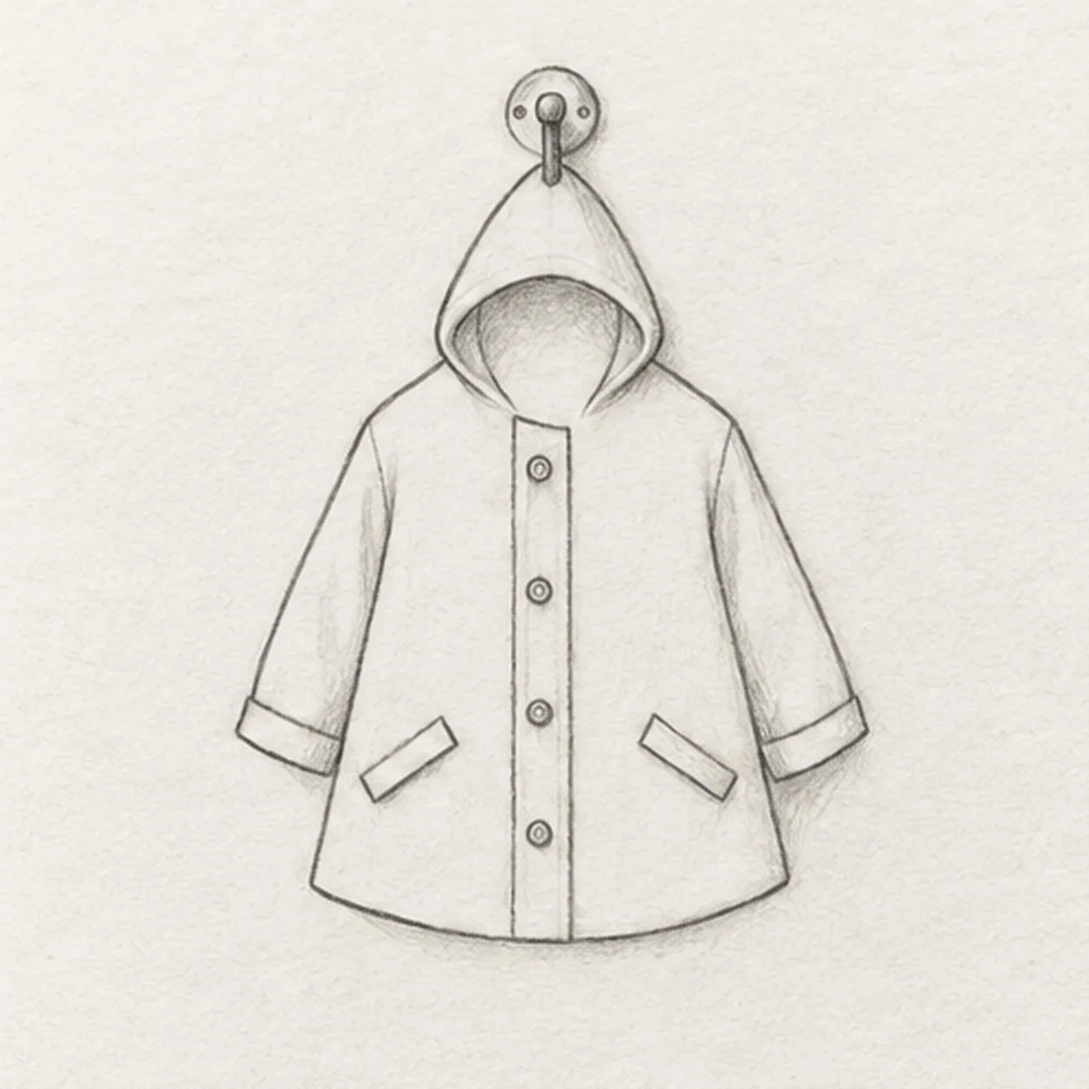
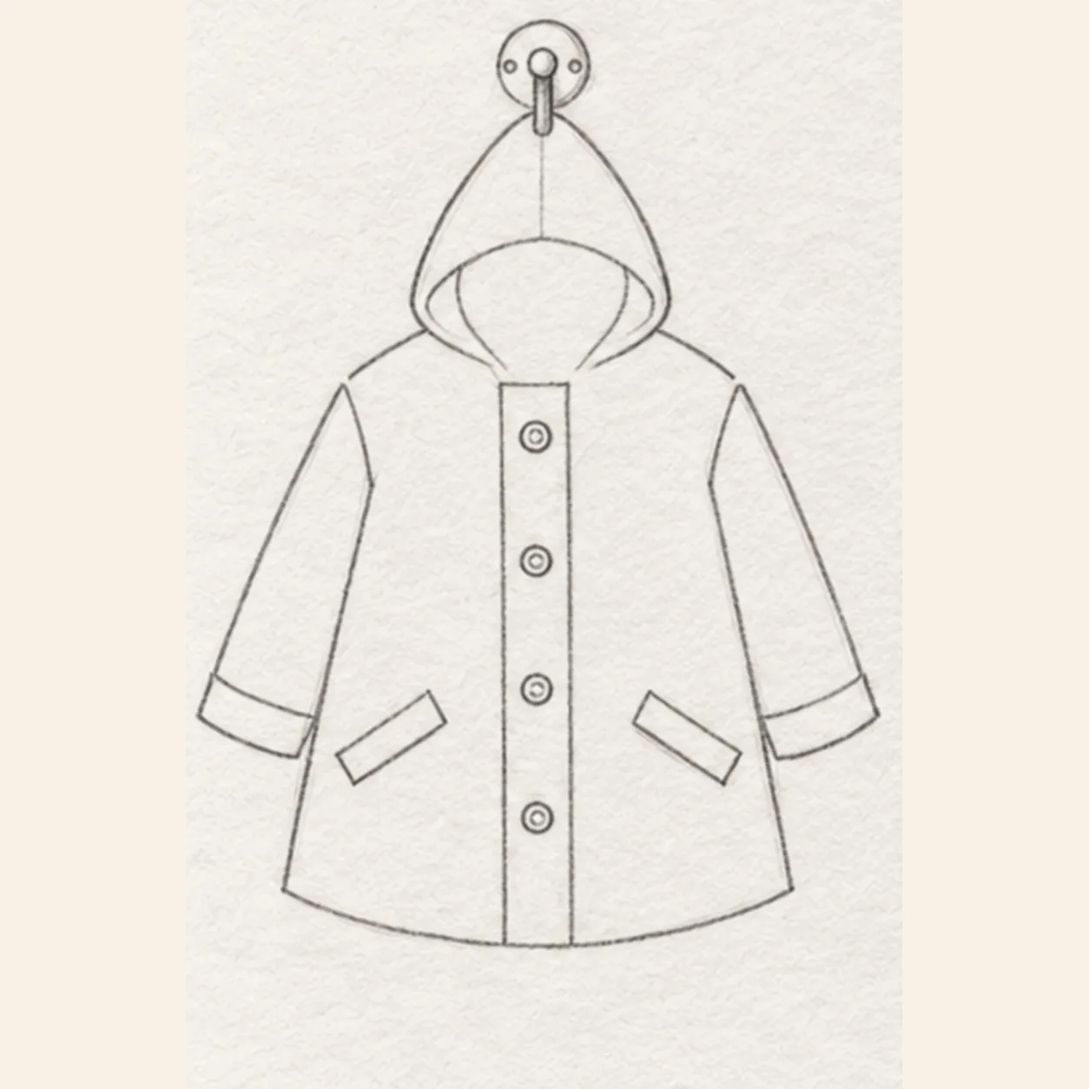
Rebuild raincoat lesson from simple body shapes

Changed region(s): [[0.1866, 0.0, 0.8086, 0.9019]]

diff --git a/tutorials/raincoat-on-a-wall-hook.html b/tutorials/raincoat-on-a-wall-hook.html
@@ -91,33 +91,33 @@
       "step": [
         {
           "@type": "HowToStep",
-          "name": "Place the peg and hood",
-          "text": "Draw a small round wall plate near the top center and let a short peg drop in front of it. From just below the peg, draw a softly pointed hood and a smaller U-shaped opening inside; let the hood meet the hanging point."
+          "name": "Map the coat body",
+          "text": "With light HB pressure, place two short shoulder slopes on either side of a wide empty neckline. Leave a small break below each shoulder for the sleeves, then draw the two sides flaring gently to a shallow curved hem. Keep the body interior blank."
         },
         {
           "@type": "HowToStep",
-          "name": "Hang the coat body",
-          "text": "From each lower hood corner, slope a shoulder outward. Leave a small open break at each shoulder for a sleeve, then draw the torso side seams from the future underarms with a slight flare and join them with a shallow curved hem."
+          "name": "Attach the loose sleeves",
+          "text": "From the left shoulder gap, pull a loose sleeve down and left to a short cuff, then return its inner edge to the existing left underarm. Mirror that move on the right without moving either side seam or the hem."
         },
         {
           "@type": "HowToStep",
-          "name": "Add both loose sleeves",
-          "text": "At the left shoulder gap, draw a loose sleeve slanting down and left to a short cuff; return its inner edge to the body at the underarm. Repeat on the right, keeping the cuffs outside the torso side seams."
+          "name": "Set the hood and peg",
+          "text": "Above the empty neckline, draw a softly pointed outer hood that meets the two inner shoulder starts. Add a smaller open U-shaped rim and one faint center seam inside the hood. Center a small round wall plate and short downward peg above the hood tip; keep the hood interior mostly white."
         },
         {
           "@type": "HowToStep",
-          "name": "Mark the front details",
-          "text": "Run two close lines from the hood opening toward the hem for the placket. Place four separate buttons inside it. Draw one short slanted pocket flap on each lower side, clear of the center opening."
+          "name": "Draw the fastening and pockets",
+          "text": "From below the hood opening, draw two close placket lines down to the hem. Space four small button circles inside it. Add one slanted pocket flap on each lower side, keeping both outside the placket and clear of the sleeves."
         },
         {
           "@type": "HowToStep",
-          "name": "Suggest soft fabric and shadow",
-          "text": "Drop two short drawstrings from the hood opening and add a short inner-hood fold across its lower opening. Add a few small fabric creases beside the shoulders and pockets, then shade lightly down and right of the hem without moving the coat outline."
+          "name": "Add cords, folds, and shadow",
+          "text": "Drop one short cord from each side of the hood rim, add a short inner-hood fold, then place a few brief creases below the shoulders and pockets. Shade lightly beneath and to the right of the coat; keep all keeper contours fixed."
         },
         {
           "@type": "HowToStep",
-          "name": "Shade the raincoat",
-          "text": "Keep the peg and all coat contours where they are. Darken the hood opening, cuffs, placket, and pocket edges, then layer soft mustard-yellow pencil over the hood, body, and sleeves, leaving paper highlights on the folds."
+          "name": "Shade the finished raincoat",
+          "text": "Deepen selected existing hood, cuff, placket, and pocket edges. Layer soft mustard-yellow pencil over the hood, body, and sleeves, leaving paper highlights on the folds; preserve the peg, four buttons, two pockets, cords, and wall shadow exactly where drawn."
         }
       ]
     },
@@ -170,7 +170,7 @@
       <div class="hero-copy">
         <p class="eyebrow">Thursday, October 1</p>
         <h1 id="hero-title" aria-label="How to draw a raincoat on a wall hook"><span class="headline-lead">How to draw...</span> <em aria-hidden="true"><span class="headline-line headline-line-compact"><span class="headline-word">a</span> <span class="headline-word">hanging</span> <span class="headline-word headline-underline">raincoat</span></span></em></h1>
-        <p class="hero-intro">Hang a simple hood from a small wall peg, then build a loose raincoat around that fixed point. Add the sleeves, center fastening, two pockets, and soft folds before shading. This 20-minute sketch practices a fabric silhouette, reserved sleeve joins, and restrained colored-pencil texture.</p>
+        <p class="hero-intro">Start with a light, flared coat body, attach the loose sleeves, then fit the hood and peg above the shoulders. Add the fastening, pockets, and small fabric details before shading. This 20-minute sketch practices a broad silhouette, clear sleeve joins, and restrained colored-pencil texture.</p>
         <div class="hero-meta" aria-label="Lesson details"><span><strong>20</strong> min</span><span><strong>Easy-medium</strong></span></div>
         <a class="nav-button hero-button" href="#lesson">Start drawing <svg viewBox="0 0 30 15" aria-hidden="true"><path d="M1 7.5h26M20 1l7 6.5-7 6.5"/></svg></a>
       </div>
@@ -199,47 +199,47 @@
             <button class="step-check" type="button" aria-label="Mark step 1 complete"><span></span></button>
             <div class="step-number">01</div>
             <div class="step-art">
-              <img src="../assets/raincoat-on-a-wall-hook-step-1.webp" alt="Place the peg and hood stage for how to draw a raincoat on a wall hook" width="627" height="627" loading="lazy">
+              <img src="../assets/raincoat-on-a-wall-hook-step-1.webp" alt="Map the coat body stage for how to draw a raincoat on a wall hook" width="627" height="627" loading="lazy">
             </div>
             <div class="step-copy">
-              <h3>Place the peg and hood</h3>
-              <p>Draw a small round wall plate near the top center and let a short peg drop in front of it. From just below the peg, draw a softly pointed hood and a smaller U-shaped opening inside; let the hood meet the hanging point.</p>
-              <p class="artist-tip"><strong>Sketch tip:</strong> Keep the peg small so the hood, rather than the hardware, sets the coat width. The open hood makes the hanging point easy to locate.</p>
+              <h3>Map the coat body</h3>
+              <p>With light HB pressure, place two short shoulder slopes on either side of a wide empty neckline. Leave a small break below each shoulder for the sleeves, then draw the two sides flaring gently to a shallow curved hem. Keep the body interior blank.</p>
+              <p class="artist-tip"><strong>Sketch tip:</strong> Compare the two lower corners before closing the hem. Leave space between the shoulder starts so the hood can fit later.</p>
             </div>
           </li>
           <li class="step-card">
             <button class="step-check" type="button" aria-label="Mark step 2 complete"><span></span></button>
             <div class="step-number">02</div>
             <div class="step-art">
-              <img src="../assets/raincoat-on-a-wall-hook-step-2.webp" alt="Hang the coat body stage for how to draw a raincoat on a wall hook" width="627" height="627" loading="lazy">
+              <img src="../assets/raincoat-on-a-wall-hook-step-2.webp" alt="Attach the loose sleeves stage for how to draw a raincoat on a wall hook" width="627" height="627" loading="lazy">
             </div>
             <div class="step-copy">
-              <h3>Hang the coat body</h3>
-              <p>From each lower hood corner, slope a shoulder outward. Leave a small open break at each shoulder for a sleeve, then draw the torso side seams from the future underarms with a slight flare and join them with a shallow curved hem.</p>
-              <p class="artist-tip"><strong>Sketch tip:</strong> Compare the two lower corners before closing the hem. The reserved shoulder breaks are where the sleeves will join.</p>
+              <h3>Attach the loose sleeves</h3>
+              <p>From the left shoulder gap, pull a loose sleeve down and left to a short cuff, then return its inner edge to the existing left underarm. Mirror that move on the right without moving either side seam or the hem.</p>
+              <p class="artist-tip"><strong>Sketch tip:</strong> Let each sleeve droop from its shoulder, then reconnect at the existing underarm; keep the original body side seams and hem in place.</p>
             </div>
           </li>
           <li class="step-card">
             <button class="step-check" type="button" aria-label="Mark step 3 complete"><span></span></button>
             <div class="step-number">03</div>
             <div class="step-art">
-              <img src="../assets/raincoat-on-a-wall-hook-step-3.webp" alt="Add both loose sleeves stage for how to draw a raincoat on a wall hook" width="627" height="627" loading="lazy">
+              <img src="../assets/raincoat-on-a-wall-hook-step-3.webp" alt="Set the hood and peg stage for how to draw a raincoat on a wall hook" width="627" height="627" loading="lazy">
             </div>
             <div class="step-copy">
-              <h3>Add both loose sleeves</h3>
-              <p>At the left shoulder gap, draw a loose sleeve slanting down and left to a short cuff; return its inner edge to the body at the underarm. Repeat on the right, keeping the cuffs outside the torso side seams.</p>
-              <p class="artist-tip"><strong>Sketch tip:</strong> Let each sleeve droop from its shoulder, then reconnect at the existing underarm; do not redraw the torso side seams.</p>
+              <h3>Set the hood and peg</h3>
+              <p>Above the empty neckline, draw a softly pointed outer hood that meets the two inner shoulder starts. Add a smaller open U-shaped rim and one faint center seam inside the hood. Center a small round wall plate and short downward peg above the hood tip; keep the hood interior mostly white.</p>
+              <p class="artist-tip"><strong>Sketch tip:</strong> Keep the peg centered above the empty neckline. Leave the hood interior open for shading and drawstrings in later steps.</p>
             </div>
           </li>
           <li class="step-card">
             <button class="step-check" type="button" aria-label="Mark step 4 complete"><span></span></button>
             <div class="step-number">04</div>
             <div class="step-art">
-              <img src="../assets/raincoat-on-a-wall-hook-step-4.webp" alt="Mark the front details stage for how to draw a raincoat on a wall hook" width="627" height="627" loading="lazy">
+              <img src="../assets/raincoat-on-a-wall-hook-step-4.webp" alt="Draw the fastening and pockets stage for how to draw a raincoat on a wall hook" width="627" height="627" loading="lazy">
             </div>
             <div class="step-copy">
-              <h3>Mark the front details</h3>
-              <p>Run two close lines from the hood opening toward the hem for the placket. Place four separate buttons inside it. Draw one short slanted pocket flap on each lower side, clear of the center opening.</p>
+              <h3>Draw the fastening and pockets</h3>
+              <p>From below the hood opening, draw two close placket lines down to the hem. Space four small button circles inside it. Add one slanted pocket flap on each lower side, keeping both outside the placket and clear of the sleeves.</p>
               <p class="artist-tip"><strong>Sketch tip:</strong> Space the four buttons before darkening them. Keep each pocket flap outside the center placket and below its sleeve.</p>
             </div>
           </li>
@@ -247,12 +247,12 @@
             <button class="step-check" type="button" aria-label="Mark step 5 complete"><span></span></button>
             <div class="step-number">05</div>
             <div class="step-art">
-              <img src="../assets/raincoat-on-a-wall-hook-step-5.webp" alt="Suggest soft fabric and shadow stage for how to draw a raincoat on a wall hook" width="627" height="627" loading="lazy">
+              <img src="../assets/raincoat-on-a-wall-hook-step-5.webp" alt="Add cords, folds, and shadow stage for how to draw a raincoat on a wall hook" width="627" height="627" loading="lazy">
             </div>
             <div class="step-copy">
-              <h3>Suggest soft fabric and shadow</h3>
-              <p>Drop two short drawstrings from the hood opening and add a short inner-hood fold across its lower opening. Add a few small fabric creases beside the shoulders and pockets, then shade lightly down and right of the hem without moving the coat outline.</p>
-              <p class="artist-tip"><strong>Sketch tip:</strong> Use short fabric marks rather than outlining every fold. Keep the wall shadow faint so the coat stays the focus.</p>
+              <h3>Add cords, folds, and shadow</h3>
+              <p>Drop one short cord from each side of the hood rim, add a short inner-hood fold, then place a few brief creases below the shoulders and pockets. Shade lightly beneath and to the right of the coat; keep all keeper contours fixed.</p>
+              <p class="artist-tip"><strong>Sketch tip:</strong> Use short fabric marks instead of outlining every fold. Keep the wall shadow faint so the coat stays the focus.</p>
             </div>
           </li>
           <li class="step-card final-step">
@@ -262,8 +262,8 @@
               <img src="../assets/raincoat-on-a-wall-hook-finished-v1.webp" alt="Handmade graphite and mustard colored-pencil sketch of a hooded raincoat hanging from a small round wall peg, with two loose cuffed sleeves, four buttons down a central placket, two slanted pocket flaps, two hood drawstrings, soft folds, and a faint wall shadow" width="1254" height="1254" loading="lazy">
             </div>
             <div class="step-copy">
-              <h3>Shade the raincoat</h3>
-              <p>Keep the peg and all coat contours where they are. Darken the hood opening, cuffs, placket, and pocket edges, then layer soft mustard-yellow pencil over the hood, body, and sleeves, leaving paper highlights on the folds.</p>
+              <h3>Shade the finished raincoat</h3>
+              <p>Deepen selected existing hood, cuff, placket, and pocket edges. Layer soft mustard-yellow pencil over the hood, body, and sleeves, leaving paper highlights on the folds; preserve the peg, four buttons, two pockets, cords, and wall shadow exactly where drawn.</p>
               <p class="artist-tip"><strong>Sketch tip:</strong> Build yellow in two light layers and leave flecks of paper visible. The peg and four buttons should still read clearly at thumbnail size.</p>
             </div>
           </li>

diff --git a/index.html b/index.html
@@ -74,7 +74,7 @@
       <div class="hero-copy">
         <p class="eyebrow">Thursday, October 1</p>
         <h1 id="hero-title" aria-label="How to draw a raincoat on a wall hook"><span class="headline-lead">How to draw...</span> <em aria-hidden="true"><span class="headline-line headline-line-compact"><span class="headline-word">a</span> <span class="headline-word">hanging</span> <span class="headline-word headline-underline">raincoat</span></span></em></h1>
-        <p class="hero-intro">Hang a simple hood from a small wall peg, then build a loose raincoat around that fixed point. Add the sleeves, center fastening, two pockets, and soft folds before shading. This 20-minute sketch practices a fabric silhouette, reserved sleeve joins, and restrained colored-pencil texture.</p>
+        <p class="hero-intro">Start with a light, flared coat body, attach the loose sleeves, then fit the hood and peg above the shoulders. Add the fastening, pockets, and small fabric details before shading. This 20-minute sketch practices a broad silhouette, clear sleeve joins, and restrained colored-pencil texture.</p>
         <div class="hero-meta" aria-label="Lesson details"><span><strong>20</strong> min</span><span><strong>Easy-medium</strong></span></div>
         <a class="nav-button hero-button" href="#lesson">Start drawing <svg viewBox="0 0 30 15" aria-hidden="true"><path d="M1 7.5h26M20 1l7 6.5-7 6.5"/></svg></a>
       </div>
@@ -103,47 +103,47 @@
             <button class="step-check" type="button" aria-label="Mark step 1 complete"><span></span></button>
             <div class="step-number">01</div>
             <div class="step-art">
-              <img src="assets/raincoat-on-a-wall-hook-step-1.webp" alt="Place the peg and hood stage for how to draw a raincoat on a wall hook" width="627" height="627" loading="lazy">
+              <img src="assets/raincoat-on-a-wall-hook-step-1.webp" alt="Map the coat body stage for how to draw a raincoat on a wall hook" width="627" height="627" loading="lazy">
             </div>
             <div class="step-copy">
-              <h3>Place the peg and hood</h3>
-              <p>Draw a small round wall plate near the top center and let a short peg drop in front of it. From just below the peg, draw a softly pointed hood and a smaller U-shaped opening inside; let the hood meet the hanging point.</p>
-              <p class="artist-tip"><strong>Sketch tip:</strong> Keep the peg small so the hood, rather than the hardware, sets the coat width. The open hood makes the hanging point easy to locate.</p>
+              <h3>Map the coat body</h3>
+              <p>With light HB pressure, place two short shoulder slopes on either side of a wide empty neckline. Leave a small break below each shoulder for the sleeves, then draw the two sides flaring gently to a shallow curved hem. Keep the body interior blank.</p>
+              <p class="artist-tip"><strong>Sketch tip:</strong> Compare the two lower corners before closing the hem. Leave space between the shoulder starts so the hood can fit later.</p>
             </div>
           </li>
           <li class="step-card">
             <button class="step-check" type="button" aria-label="Mark step 2 complete"><span></span></button>
             <div class="step-number">02</div>
             <div class="step-art">
-              <img src="assets/raincoat-on-a-wall-hook-step-2.webp" alt="Hang the coat body stage for how to draw a raincoat on a wall hook" width="627" height="627" loading="lazy">
+              <img src="assets/raincoat-on-a-wall-hook-step-2.webp" alt="Attach the loose sleeves stage for how to draw a raincoat on a wall hook" width="627" height="627" loading="lazy">
             </div>
             <div class="step-copy">
-              <h3>Hang the coat body</h3>
-              <p>From each lower hood corner, slope a shoulder outward. Leave a small open break at each shoulder for a sleeve, then draw the torso side seams from the future underarms with a slight flare and join them with a shallow curved hem.</p>
-              <p class="artist-tip"><strong>Sketch tip:</strong> Compare the two lower corners before closing the hem. The reserved shoulder breaks are where the sleeves will join.</p>
+              <h3>Attach the loose sleeves</h3>
+              <p>From the left shoulder gap, pull a loose sleeve down and left to a short cuff, then return its inner edge to the existing left underarm. Mirror that move on the right without moving either side seam or the hem.</p>
+              <p class="artist-tip"><strong>Sketch tip:</strong> Let each sleeve droop from its shoulder, then reconnect at the existing underarm; keep the original body side seams and hem in place.</p>
             </div>
           </li>
           <li class="step-card">
             <button class="step-check" type="button" aria-label="Mark step 3 complete"><span></span></button>
             <div class="step-number">03</div>
             <div class="step-art">
-              <img src="assets/raincoat-on-a-wall-hook-step-3.webp" alt="Add both loose sleeves stage for how to draw a raincoat on a wall hook" width="627" height="627" loading="lazy">
+              <img src="assets/raincoat-on-a-wall-hook-step-3.webp" alt="Set the hood and peg stage for how to draw a raincoat on a wall hook" width="627" height="627" loading="lazy">
             </div>
             <div class="step-copy">
-              <h3>Add both loose sleeves</h3>
-              <p>At the left shoulder gap, draw a loose sleeve slanting down and left to a short cuff; return its inner edge to the body at the underarm. Repeat on the right, keeping the cuffs outside the torso side seams.</p>
-              <p class="artist-tip"><strong>Sketch tip:</strong> Let each sleeve droop from its shoulder, then reconnect at the existing underarm; do not redraw the torso side seams.</p>
+              <h3>Set the hood and peg</h3>
+              <p>Above the empty neckline, draw a softly pointed outer hood that meets the two inner shoulder starts. Add a smaller open U-shaped rim and one faint center seam inside the hood. Center a small round wall plate and short downward peg above the hood tip; keep the hood interior mostly white.</p>
+              <p class="artist-tip"><strong>Sketch tip:</strong> Keep the peg centered above the empty neckline. Leave the hood interior open for shading and drawstrings in later steps.</p>
             </div>
           </li>
           <li class="step-card">
             <button class="step-check" type="button" aria-label="Mark step 4 complete"><span></span></button>
             <div class="step-number">04</div>
             <div class="step-art">
-              <img src="assets/raincoat-on-a-wall-hook-step-4.webp" alt="Mark the front details stage for how to draw a raincoat on a wall hook" width="627" height="627" loading="lazy">
+              <img src="assets/raincoat-on-a-wall-hook-step-4.webp" alt="Draw the fastening and pockets stage for how to draw a raincoat on a wall hook" width="627" height="627" loading="lazy">
             </div>
             <div class="step-copy">
-              <h3>Mark the front details</h3>
-              <p>Run two close lines from the hood opening toward the hem for the placket. Place four separate buttons inside it. Draw one short slanted pocket flap on each lower side, clear of the center opening.</p>
+              <h3>Draw the fastening and pockets</h3>
+              <p>From below the hood opening, draw two close placket lines down to the hem. Space four small button circles inside it. Add one slanted pocket flap on each lower side, keeping both outside the placket and clear of the sleeves.</p>
               <p class="artist-tip"><strong>Sketch tip:</strong> Space the four buttons before darkening them. Keep each pocket flap outside the center placket and below its sleeve.</p>
             </div>
           </li>
@@ -151,12 +151,12 @@
             <button class="step-check" type="button" aria-label="Mark step 5 complete"><span></span></button>
             <div class="step-number">05</div>
             <div class="step-art">
-              <img src="assets/raincoat-on-a-wall-hook-step-5.webp" alt="Suggest soft fabric and shadow stage for how to draw a raincoat on a wall hook" width="627" height="627" loading="lazy">
+              <img src="assets/raincoat-on-a-wall-hook-step-5.webp" alt="Add cords, folds, and shadow stage for how to draw a raincoat on a wall hook" width="627" height="627" loading="lazy">
             </div>
             <div class="step-copy">
-              <h3>Suggest soft fabric and shadow</h3>
-              <p>Drop two short drawstrings from the hood opening and add a short inner-hood fold across its lower opening. Add a few small fabric creases beside the shoulders and pockets, then shade lightly down and right of the hem without moving the coat outline.</p>
-              <p class="artist-tip"><strong>Sketch tip:</strong> Use short fabric marks rather than outlining every fold. Keep the wall shadow faint so the coat stays the focus.</p>
+              <h3>Add cords, folds, and shadow</h3>
+              <p>Drop one short cord from each side of the hood rim, add a short inner-hood fold, then place a few brief creases below the shoulders and pockets. Shade lightly beneath and to the right of the coat; keep all keeper contours fixed.</p>
+              <p class="artist-tip"><strong>Sketch tip:</strong> Use short fabric marks instead of outlining every fold. Keep the wall shadow faint so the coat stays the focus.</p>
             </div>
           </li>
           <li class="step-card final-step">
@@ -166,8 +166,8 @@
               <img src="assets/raincoat-on-a-wall-hook-finished-v1.webp" alt="Handmade graphite and mustard colored-pencil sketch of a hooded raincoat hanging from a small round wall peg, with two loose cuffed sleeves, four buttons down a central placket, two slanted pocket flaps, two hood drawstrings, soft folds, and a faint wall shadow" width="1254" height="1254" loading="lazy">
             </div>
             <div class="step-copy">
-              <h3>Shade the raincoat</h3>
-              <p>Keep the peg and all coat contours where they are. Darken the hood opening, cuffs, placket, and pocket edges, then layer soft mustard-yellow pencil over the hood, body, and sleeves, leaving paper highlights on the folds.</p>
+              <h3>Shade the finished raincoat</h3>
+              <p>Deepen selected existing hood, cuff, placket, and pocket edges. Layer soft mustard-yellow pencil over the hood, body, and sleeves, leaving paper highlights on the folds; preserve the peg, four buttons, two pockets, cords, and wall shadow exactly where drawn.</p>
               <p class="artist-tip"><strong>Sketch tip:</strong> Build yellow in two light layers and leave flecks of paper visible. The peg and four buttons should still read clearly at thumbnail size.</p>
             </div>
           </li>

diff --git a/HUMANS.md b/HUMANS.md
@@ -1,5 +1,11 @@
 # Human Notes
 
+## 2026-10-01 — Owner correction to raincoat process (Codex)
+
+- Corrected existing Sketcha Day 148 `raincoat-on-a-wall-hook` at its current slug. Step 1 now shows only the broad coat body envelope; Step 2 attaches two cuffed sleeves; Step 3 adds the open hood and wall peg; Step 4 adds the placket, four buttons, and pockets; Step 5 adds cords, folds, and shadow; the finish colors established contours. The prior hood-first art and failed shifted candidates remain in private rejected-progressions.
+- Repaired Steps 1–3 against the later coat geometry so the hem, side seams, shoulder joins, and hood anchors stay fixed. Manually reviewed all five saved transitions including finish; teaching 8.3/10 and saved finish 8.2/10, with fresh schema-v5 contract/image hashes and no temporary guides. Readiness passed (300 URLs), all 11 tutorial images loaded, and desktop/mobile homepage, library, and raincoat page rendered without overflow.
+- This is a correction to the one October 1 lesson, not a new daily slot. The one-current-lesson-per-site cadence remains active; Doodlea Day 137 `surprised-cartoon-pumpkin` is unchanged. Harness: Codex; task: 2026-10-01 — Daily sketch and doodle lessons; local path: /Users/mybbor/Library/CloudStorage/Dropbox/websites/sketcha.day.
+
 ## 2026-10-01 — Current hanging raincoat lesson (Codex)
 
 - Added Sketcha Day 148 `raincoat-on-a-wall-hook` for October 1. Six saved graphite and mustard-pencil crops keep the wall peg, hood, loose body, two cuffs, four buttons, two pockets, two hood cords, inner hood fold, and wall shadow at stable anchors. Repaired Step 2 underarm gaps and side seams before approval; the rejected sheet remains private.
